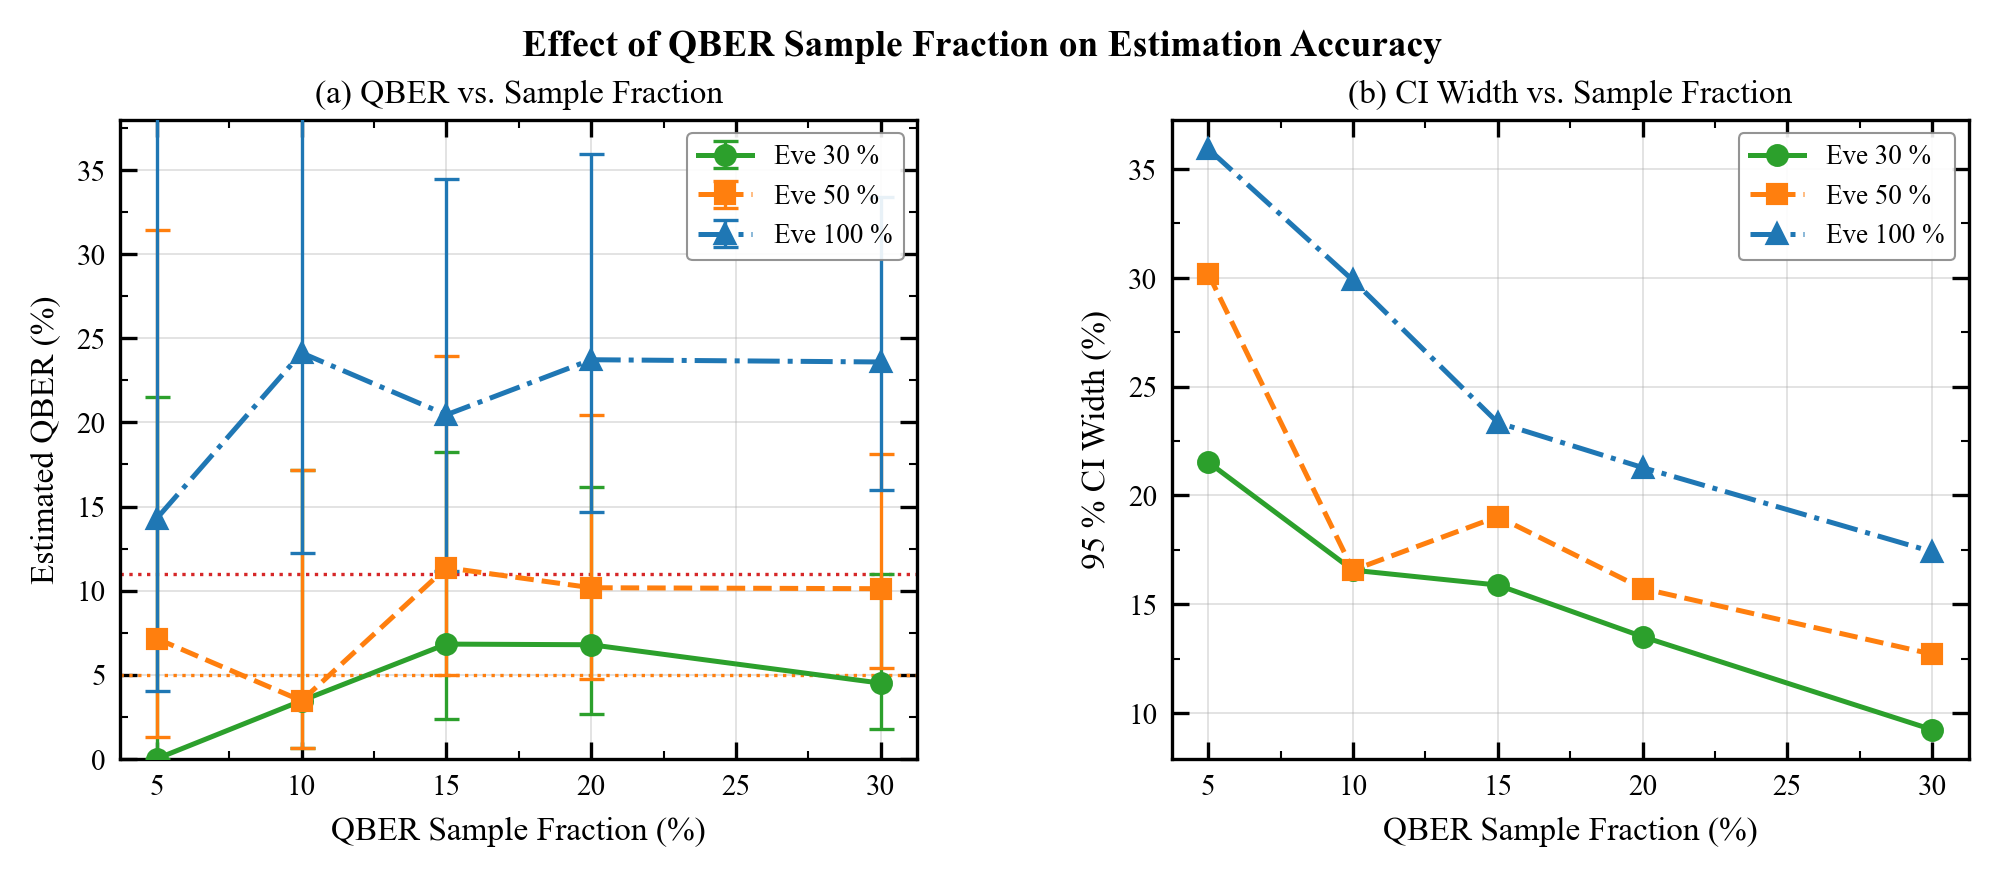
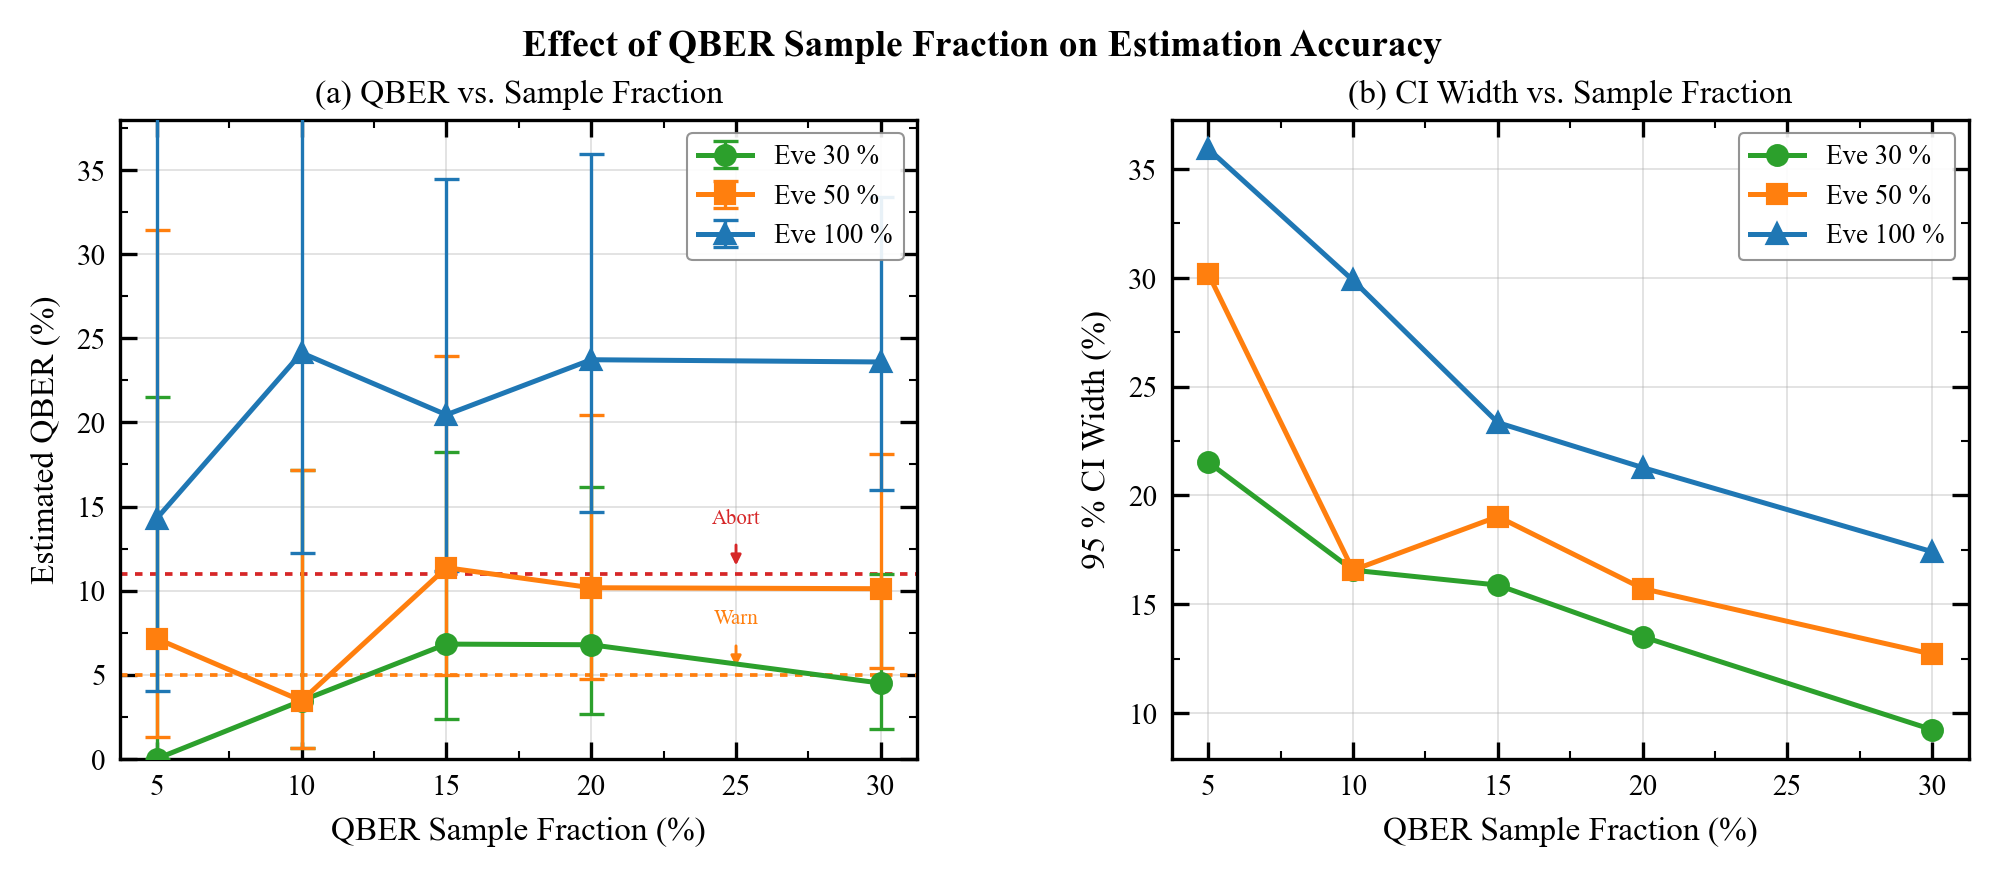
updated note book_with knee point testing plots

diff --git a/bb84_plots_extended.py b/bb84_plots_extended.py
@@ -720,12 +720,12 @@ def plot_sample_fraction_effect(
 
         ax1.errorbar(frac_pct, qbers, yerr=[ci_lo, ci_hi],
                      color=col, marker=_MARKERS[idx],
-                     linestyle=_LINESTYLE[idx % 4],
+                     linestyle="-",
                      capsize=3, capthick=0.8, elinewidth=0.8,
                      label=labels.get(p, f"Eve {p*100:.0f}%"), zorder=3)
         ax2.plot(frac_pct, ci_w,
                  color=col, marker=_MARKERS[idx],
-                 linestyle=_LINESTYLE[idx % 4],
+                 linestyle="-",
                  label=labels.get(p, f"Eve {p*100:.0f}%"), zorder=3)
 
     for ax in (ax1, ax2):
@@ -735,8 +735,19 @@ def plot_sample_fraction_effect(
         ax.legend(fontsize=6.5, loc="best",
                   framealpha=0.90, edgecolor="#888888").get_frame().set_linewidth(0.5)
 
-    ax1.axhline(11, color=_C["abort"],   linestyle=":", linewidth=0.8, zorder=2)
-    ax1.axhline(5,  color=_C["warning"], linestyle=":", linewidth=0.8, zorder=2)
+    # ── Threshold lines — small dotted, labelled, with pointer ───────────────
+    ax1.axhline(11, color=_C["abort"],   linestyle=(0, (2, 2)), linewidth=0.9, zorder=2)
+    ax1.annotate("Abort", xy=(25, 11), xytext=(25, 14),
+                 color=_C["abort"], fontsize=5, ha="center",
+                 arrowprops=dict(arrowstyle="-|>", color=_C["abort"],
+                                 lw=0.7, mutation_scale=5))
+
+    ax1.axhline(5,  color=_C["warning"], linestyle=(0, (2, 2)), linewidth=0.9, zorder=2)
+    ax1.annotate("Warn", xy=(25, 5), xytext=(25, 8),
+                 color=_C["warning"], fontsize=5, ha="center",
+                 arrowprops=dict(arrowstyle="-|>", color=_C["warning"],
+                                 lw=0.7, mutation_scale=5))
+
     ax1.set_ylabel("Estimated QBER (%)")
     ax1.set_ylim(0, 38)
     ax1.set_title("(a) QBER vs. Sample Fraction", fontsize=8, pad=4)
@@ -746,7 +757,6 @@ def plot_sample_fraction_effect(
 
     _save(fig, save_path)
     plt.show()
-
 
 # ──────────────────────────────────────────────────────────────────────────────
 # PLOT D — DEPOLARIZATION × EVE HEATMAP